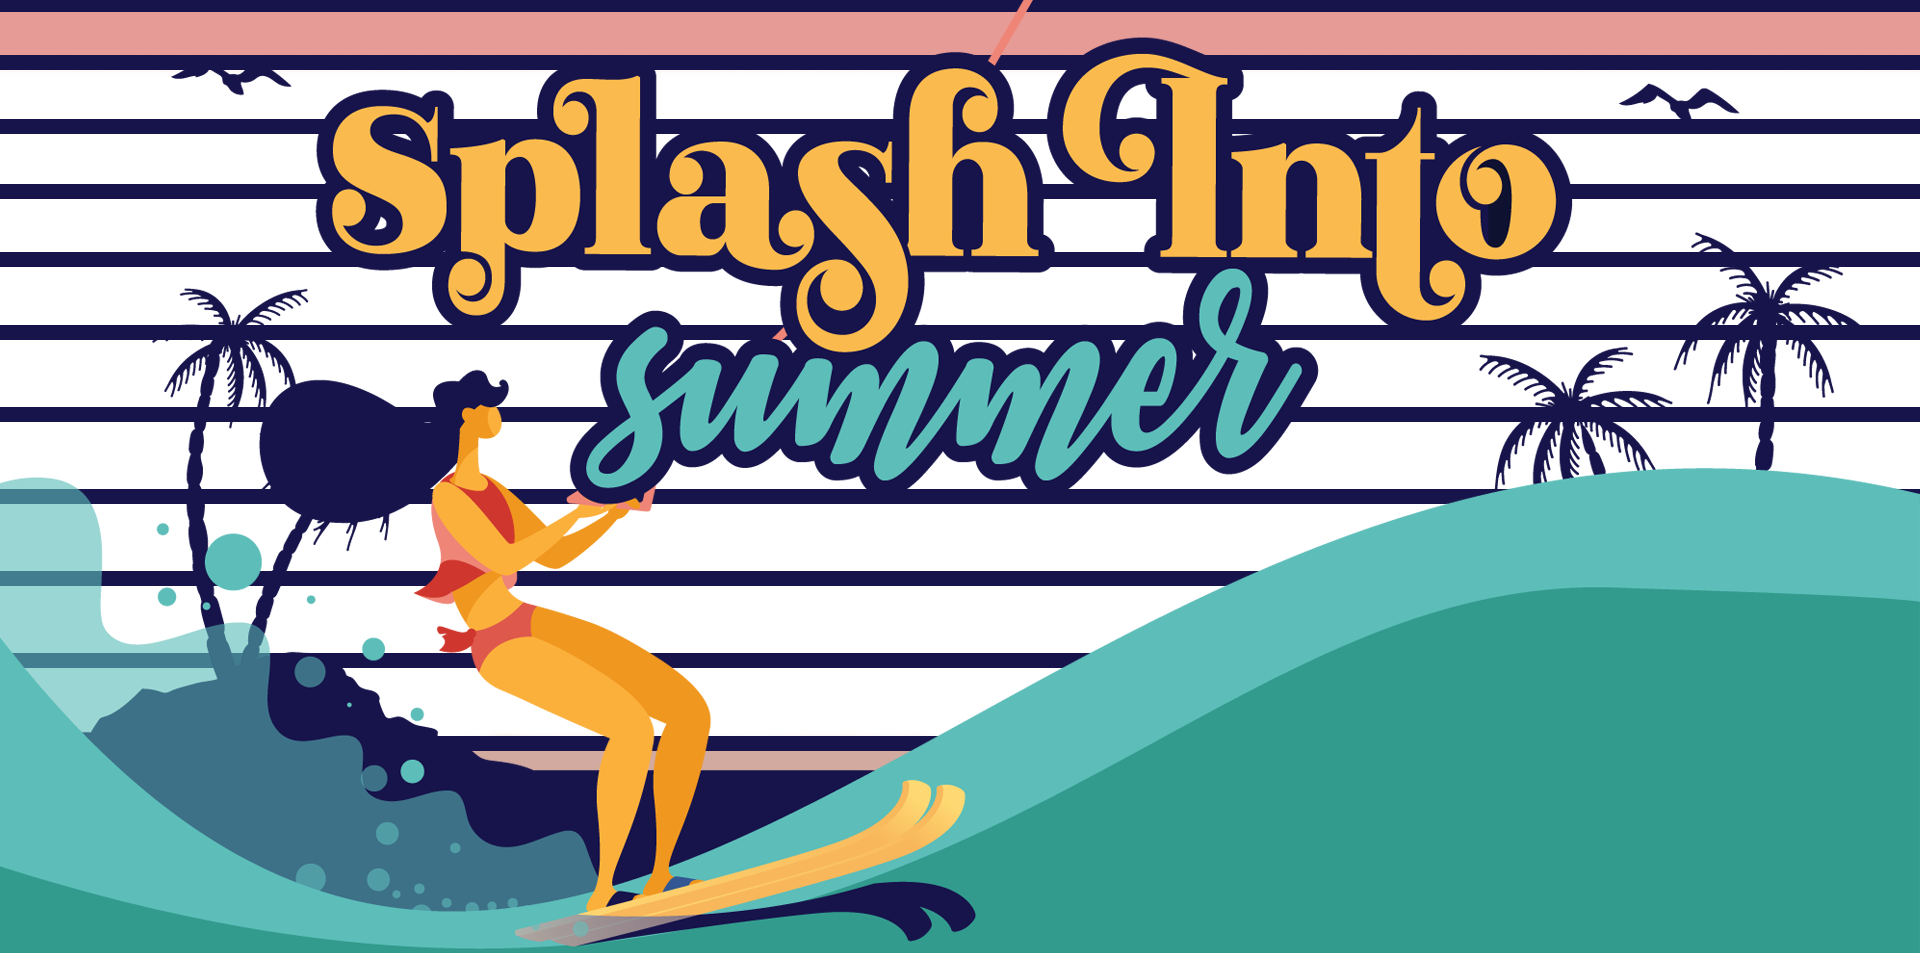
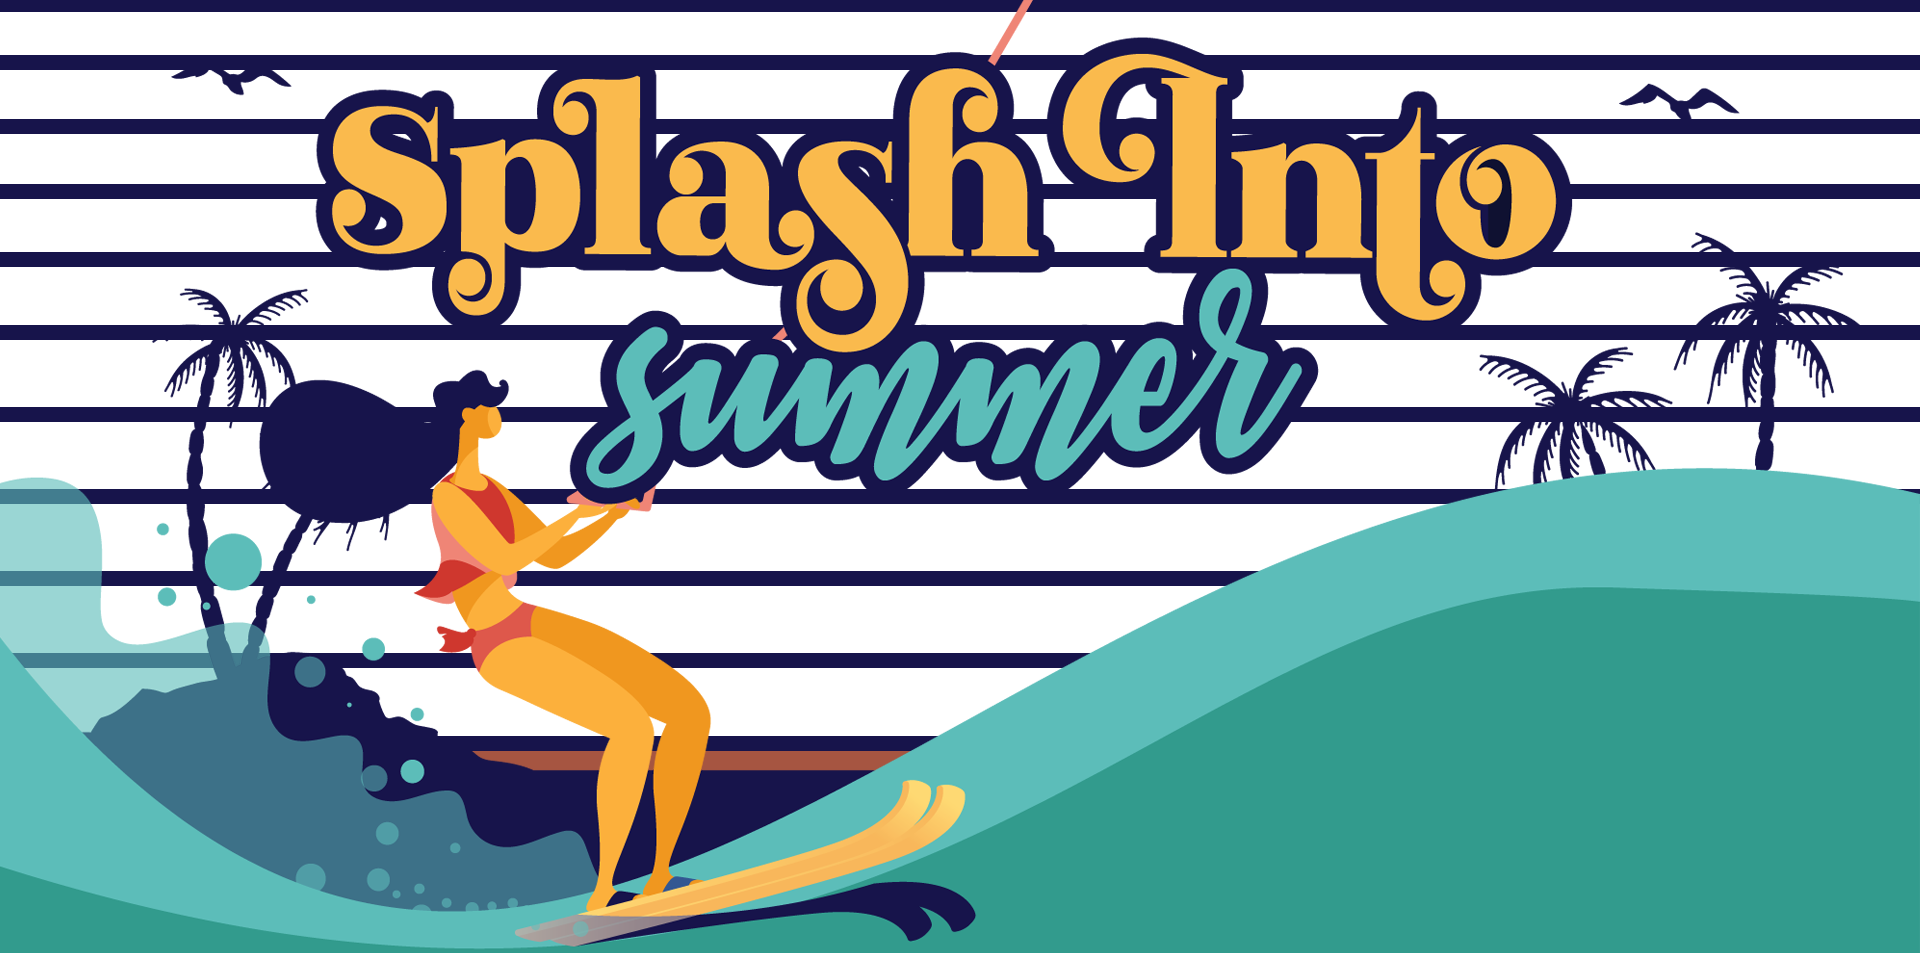
better background and cleanup

Changed region(s): [[0.0, 0.0, 1.0, 0.0609], [0.3438, 0.7608, 0.4688, 0.8216], [0.25, 0.7608, 0.3125, 0.8216]]

diff --git a/summer-reading/index.html b/summer-reading/index.html
@@ -94,8 +94,8 @@ e.async=true;var t=document.getElementsByTagName("script")[0];t.parentNode.inser
     padding-bottom: 45px;
 }
 .banner-row-image {
-    background: linear-gradient(180deg, #cf1106, #fcc36c, #ef8576);
-    background-size: 400% 400%;
+    background: linear-gradient(#cf372e 0%, #fed973 20%, #eb7545 50%, #ef7175 60%, #cf372e 100%);
+    background-size: 300% 300%;
     -webkit-animation: AnimationName 10s ease infinite;
     animation: AnimationName 10s ease infinite;
     border-bottom: 45px solid #329B8D;
